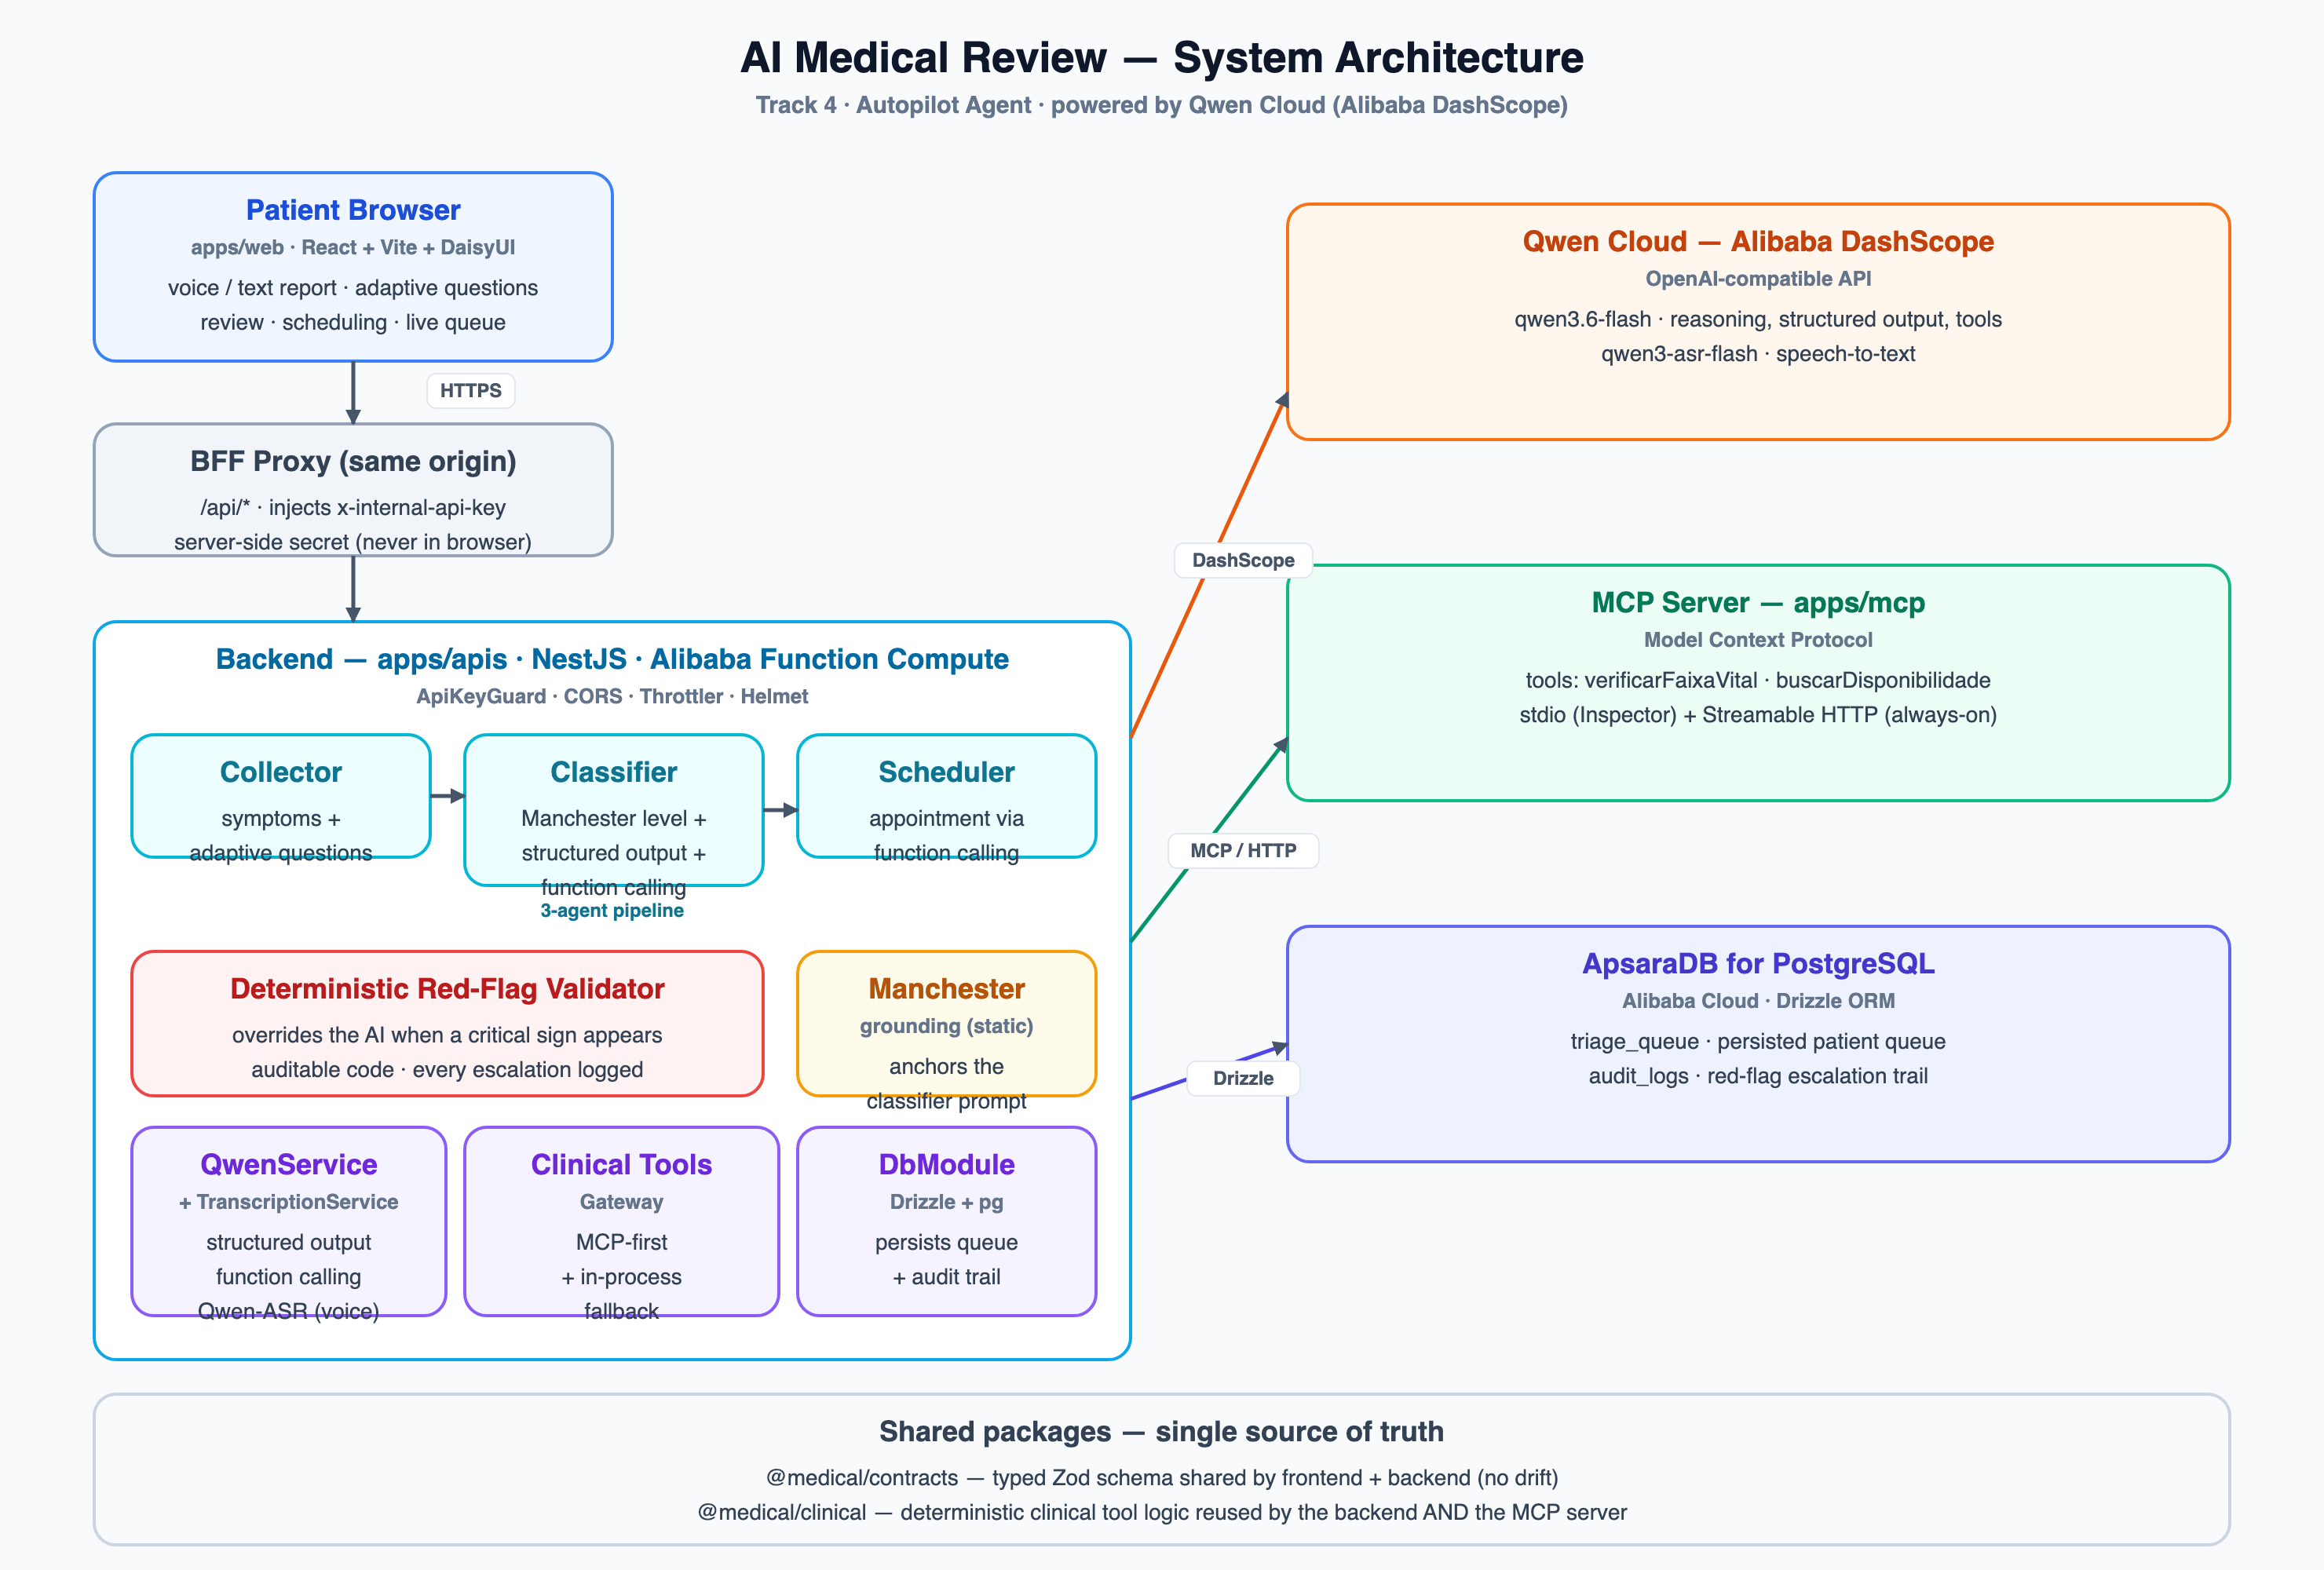
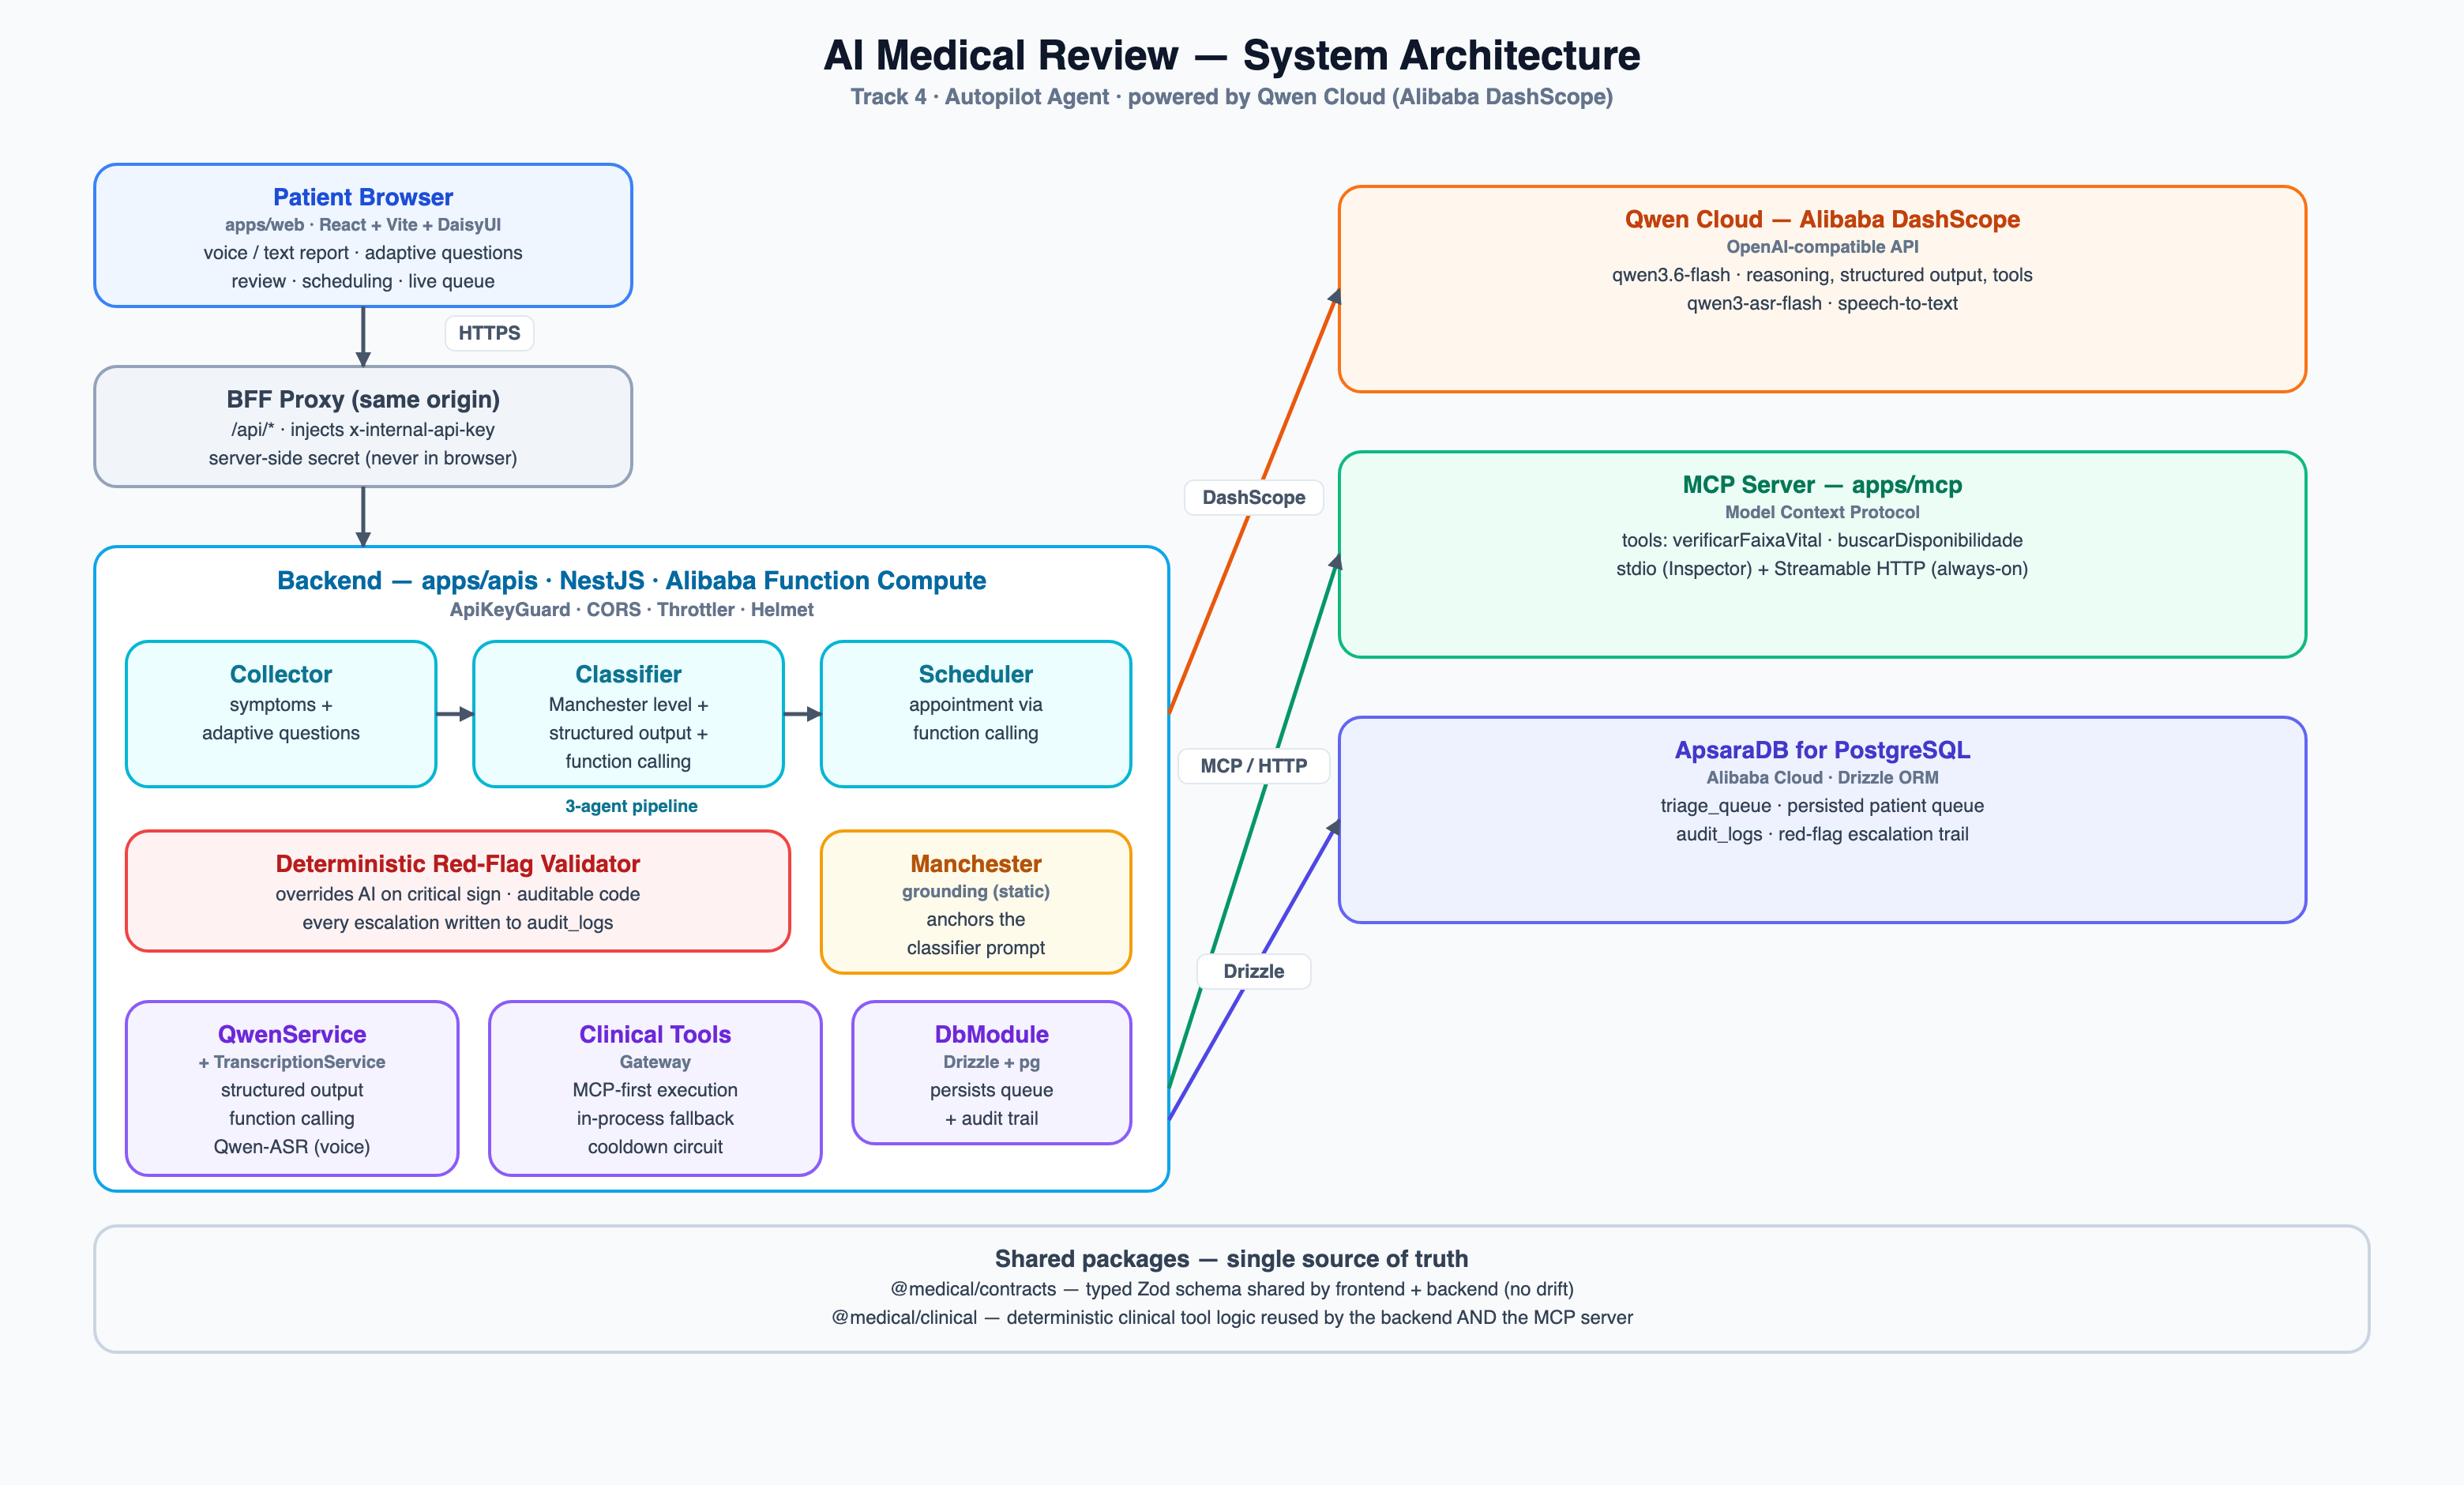
Update architecture diagrams: enhance SVG dimensions and layout for clarity

diff --git a/apps/web/src/App.tsx b/apps/web/src/App.tsx
@@ -897,28 +897,6 @@ export default function App() {
       data-theme={isDarkMode ? 'night' : 'light'}
       className="min-h-screen bg-base-200 text-base-content font-sans transition-colors duration-200 flex flex-col justify-between"
     >
-      <div className="fixed right-4 top-4 z-40 flex items-center gap-1 rounded-full border border-base-300 bg-base-100/95 p-1 shadow-lg backdrop-blur">
-        {(['pt-BR', 'en'] as const).map(option => (
-          <button
-            key={option}
-            type="button"
-            aria-label={
-              option === 'pt-BR'
-                ? 'Alterar idioma para português'
-                : 'Change language to English'
-            }
-            className={`rounded-full px-3 py-1.5 text-xs font-black transition ${
-              activeIdioma === option
-                ? 'bg-primary text-primary-content'
-                : 'text-base-content/60 hover:bg-base-200'
-            }`}
-            onClick={() => handleLanguageChange(option)}
-          >
-            {option === 'pt-BR' ? 'PT' : 'EN'}
-          </button>
-        ))}
-      </div>
-
       {/* Toast Notification */}
       {customToast && (
         <div
@@ -3021,7 +2999,30 @@ export default function App() {
               </button>
             </div>
 
-            <div className="flex items-center gap-3">
+            <div className="flex items-center gap-3 flex-wrap justify-end">
+              {/* Language Switch */}
+              <div className="flex items-center gap-1 rounded-full border border-base-300 bg-base-100/95 p-1 shadow-sm backdrop-blur">
+                {(['pt-BR', 'en'] as const).map(option => (
+                  <button
+                    key={option}
+                    type="button"
+                    aria-label={
+                      option === 'pt-BR'
+                        ? 'Alterar idioma para português'
+                        : 'Change language to English'
+                    }
+                    className={`rounded-full px-3 py-1.5 text-xs font-black transition ${
+                      activeIdioma === option
+                        ? 'bg-primary text-primary-content'
+                        : 'text-base-content/60 hover:bg-base-200'
+                    }`}
+                    onClick={() => handleLanguageChange(option)}
+                  >
+                    {option === 'pt-BR' ? 'PT' : 'EN'}
+                  </button>
+                ))}
+              </div>
+
               {/* Light/Dark mode Toggle */}
               <button
                 id="theme_toggle"

diff --git a/docs/architecture.gen.py b/docs/architecture.gen.py
@@ -1,7 +1,9 @@
 #!/usr/bin/env python3
 """Generate the AI Medical Review architecture diagram as a standalone SVG."""
 
-W, H = 1480, 1000
+import os
+
+W, H = 1560, 940
 parts = []
 
 def esc(s):
@@ -13,23 +15,25 @@ def box(x, y, w, h, fill, stroke, rx=14):
         f'fill="{fill}" stroke="{stroke}" stroke-width="2"/>'
     )
 
-def text(x, y, s, size=17, weight="700", fill="#0f172a", anchor="middle", family="Helvetica"):
+def text(x, y, s, size=16, weight="700", fill="#0f172a", anchor="middle", family="Helvetica"):
     parts.append(
         f'<text x="{x}" y="{y}" font-family="{family},Arial,sans-serif" '
         f'font-size="{size}" font-weight="{weight}" fill="{fill}" '
         f'text-anchor="{anchor}">{esc(s)}</text>'
     )
 
-def lines(cx, top, items, size=14, weight="500", fill="#334155", gap=22, anchor="middle"):
+def lines(cx, top, items, size=12, weight="500", fill="#334155", gap=18, anchor="middle"):
     for i, s in enumerate(items):
         text(cx, top + i * gap, s, size=size, weight=weight, fill=fill, anchor=anchor)
 
+# titled(): body starts at y+60 (with subtitle) or y+44 (without).
+# Minimum heights: sub+2lines=90, sub+3lines=108, nosub+2lines=76, nosub+3lines=92
 def titled(x, y, w, h, title, subtitle, body, fill, stroke, tcolor):
     box(x, y, w, h, fill, stroke)
-    text(x + w / 2, y + 30, title, size=18, weight="800", fill=tcolor)
+    text(x + w / 2, y + 26, title, size=15, weight="800", fill=tcolor)
     if subtitle:
-        text(x + w / 2, y + 52, subtitle, size=13, weight="600", fill="#64748b")
-    lines(x + w / 2, y + (78 if subtitle else 58), body)
+        text(x + w / 2, y + 42, subtitle, size=11, weight="600", fill="#64748b")
+    lines(x + w / 2, y + (60 if subtitle else 44), body)
 
 def arrow(x1, y1, x2, y2, color="#475569", dash=False, width=2.5):
     d = ' stroke-dasharray="7 6"' if dash else ''
@@ -45,7 +49,7 @@ def label(x, y, s, color="#475569"):
     )
     text(x, y + 1, s, size=12, weight="700", fill=color)
 
-# defs / background
+# ── defs / background ────────────────────────────────────────────────────────
 parts.append(
     '<defs><marker id="arrow" markerWidth="12" markerHeight="12" refX="9" refY="5" '
     'orient="auto" markerUnits="userSpaceOnUse">'
@@ -53,92 +57,117 @@ parts.append(
 )
 parts.append(f'<rect x="0" y="0" width="{W}" height="{H}" fill="#f8fafc"/>')
 
-# title
-text(W / 2, 46, "AI Medical Review — System Architecture", size=27, weight="800")
-text(W / 2, 72, "Track 4 · Autopilot Agent · powered by Qwen Cloud (Alibaba DashScope)",
-     size=15, weight="600", fill="#64748b")
+# ── Title ────────────────────────────────────────────────────────────────────
+text(W / 2, 44, "AI Medical Review — System Architecture", size=26, weight="800")
+text(W / 2, 66, "Track 4 · Autopilot Agent · powered by Qwen Cloud (Alibaba DashScope)",
+     size=14, weight="600", fill="#64748b")
 
-# ---- Frontend ----
-titled(60, 110, 330, 120, "Patient Browser", "apps/web · React + Vite + DaisyUI",
+# ── Frontend  (subtitle + 2 body lines → h≥90) ───────────────────────────────
+titled(60, 104, 340, 90, "Patient Browser", "apps/web · React + Vite + DaisyUI",
        ["voice / text report · adaptive questions",
         "review · scheduling · live queue"],
        "#eff6ff", "#3b82f6", "#1d4ed8")
 
-# ---- BFF ----
-titled(60, 270, 330, 84, "BFF Proxy (same origin)", "",
+# ── BFF  (no subtitle + 2 body lines → h≥76) ─────────────────────────────────
+titled(60, 232, 340, 76, "BFF Proxy (same origin)", "",
        ["/api/*  ·  injects x-internal-api-key",
         "server-side secret (never in browser)"],
        "#f1f5f9", "#94a3b8", "#334155")
 
-# ---- Backend container ----
-bx, by, bw, bh = 60, 396, 660, 470
+# ── Backend container ─────────────────────────────────────────────────────────
+# Layout:
+#   py = 406  (pipeline row)        cards h=92
+#   sy = 522  (safety row)          safety h=76, manchester h=90
+#   ry = 630  (bottom row)          cards h=110
+#   container bottom = 754          bh = 754 - 346 = 408
+bx, by, bw = 60, 346, 680
+bh = 408
 box(bx, by, bw, bh, "#ffffff", "#0ea5e9")
-text(bx + bw / 2, by + 30, "Backend — apps/apis · NestJS · Alibaba Function Compute", size=18, weight="800", fill="#0369a1")
-text(bx + bw / 2, by + 52, "ApiKeyGuard · CORS · Throttler · Helmet", size=13, weight="600", fill="#64748b")
+text(bx + bw / 2, by + 27, "Backend — apps/apis · NestJS · Alibaba Function Compute",
+     size=16, weight="800", fill="#0369a1")
+text(bx + bw / 2, by + 44, "ApiKeyGuard · CORS · Throttler · Helmet",
+     size=12, weight="600", fill="#64748b")
 
-# pipeline row
-py = by + 72
-titled(bx + 24, py, 190, 78, "Collector", "", ["symptoms +", "adaptive questions"], "#ecfeff", "#06b6d4", "#0e7490")
-titled(bx + 236, py, 190, 96, "Classifier", "", ["Manchester level +", "structured output +", "function calling"], "#ecfeff", "#06b6d4", "#0e7490")
-titled(bx + 448, py, 190, 78, "Scheduler", "", ["appointment via", "function calling"], "#ecfeff", "#06b6d4", "#0e7490")
-arrow(bx + 214, py + 39, bx + 236, py + 39)
-arrow(bx + 426, py + 48, bx + 448, py + 48)
-text(bx + bw/2, py + 116, "3-agent pipeline", size=12, weight="700", fill="#0e7490")
+# pipeline row  (no subtitle + 2-3 body lines → h=92 uniform)
+py = by + 60   # = 406
+titled(bx + 20,  py, 196, 92, "Collector",  "", ["symptoms +", "adaptive questions"],
+       "#ecfeff", "#06b6d4", "#0e7490")
+titled(bx + 240, py, 196, 92, "Classifier", "",
+       ["Manchester level +", "structured output +", "function calling"],
+       "#ecfeff", "#06b6d4", "#0e7490")
+titled(bx + 460, py, 196, 92, "Scheduler",  "", ["appointment via", "function calling"],
+       "#ecfeff", "#06b6d4", "#0e7490")
+arrow(bx + 216, py + 46, bx + 240, py + 46)
+arrow(bx + 436, py + 46, bx + 460, py + 46)
+text(bx + bw / 2, py + 108, "3-agent pipeline", size=11, weight="700", fill="#0e7490")
 
-# safety + grounding
-sy = by + 210
-titled(bx + 24, sy, 402, 92, "Deterministic Red-Flag Validator", "",
-       ["overrides the AI when a critical sign appears",
-        "auditable code · every escalation logged"], "#fef2f2", "#ef4444", "#b91c1c")
-titled(bx + 448, sy, 190, 92, "Manchester", "grounding (static)", ["anchors the", "classifier prompt"], "#fffbeb", "#f59e0b", "#b45309")
+# safety row  (safety: no sub + 2 lines h=76 / manchester: sub + 2 lines h=90)
+sy = py + 120   # = 526
+titled(bx + 20, sy, 420, 76, "Deterministic Red-Flag Validator", "",
+       ["overrides AI on critical sign  ·  auditable code",
+        "every escalation written to audit_logs"],
+       "#fef2f2", "#ef4444", "#b91c1c")
+titled(bx + 460, sy, 196, 90, "Manchester", "grounding (static)",
+       ["anchors the", "classifier prompt"],
+       "#fffbeb", "#f59e0b", "#b45309")
 
-# bottom row: qwen client, tools gateway, db module
-ry = by + 322
-titled(bx + 24, ry, 200, 120, "QwenService", "+ TranscriptionService",
-       ["structured output", "function calling", "Qwen-ASR (voice)"], "#f5f3ff", "#8b5cf6", "#6d28d9")
-titled(bx + 236, ry, 200, 120, "Clinical Tools", "Gateway",
-       ["MCP-first", "+ in-process", "fallback"], "#f5f3ff", "#8b5cf6", "#6d28d9")
-titled(bx + 448, ry, 190, 120, "DbModule", "Drizzle + pg",
-       ["persists queue", "+ audit trail"], "#f5f3ff", "#8b5cf6", "#6d28d9")
+# bottom row  (subtitle + 3 lines → h=110 / subtitle + 2 lines → h=90)
+ry = sy + 108   # = 634
+titled(bx + 20,  ry, 210, 110, "QwenService", "+ TranscriptionService",
+       ["structured output", "function calling", "Qwen-ASR (voice)"],
+       "#f5f3ff", "#8b5cf6", "#6d28d9")
+titled(bx + 250, ry, 210, 110, "Clinical Tools", "Gateway",
+       ["MCP-first execution", "in-process fallback", "cooldown circuit"],
+       "#f5f3ff", "#8b5cf6", "#6d28d9")
+titled(bx + 480, ry, 176, 90, "DbModule", "Drizzle + pg",
+       ["persists queue", "+ audit trail"],
+       "#f5f3ff", "#8b5cf6", "#6d28d9")
 
-# ---- Right column: Qwen Cloud, MCP, Postgres ----
-titled(820, 130, 600, 150, "Qwen Cloud — Alibaba DashScope", "OpenAI-compatible API",
+# ── Right column: Qwen Cloud / MCP / ApsaraDB (subtitle + 2 lines → h=90, padded to 130) ──
+titled(848, 118, 612, 130, "Qwen Cloud — Alibaba DashScope", "OpenAI-compatible API",
        ["qwen3.6-flash  ·  reasoning, structured output, tools",
-        "qwen3-asr-flash  ·  speech-to-text"], "#fff7ed", "#f97316", "#c2410c")
+        "qwen3-asr-flash  ·  speech-to-text"],
+       "#fff7ed", "#f97316", "#c2410c")
 
-titled(820, 360, 600, 150, "MCP Server — apps/mcp", "Model Context Protocol",
+titled(848, 286, 612, 130, "MCP Server — apps/mcp", "Model Context Protocol",
        ["tools: verificarFaixaVital · buscarDisponibilidade",
-        "stdio (Inspector) + Streamable HTTP (always-on)"], "#ecfdf5", "#10b981", "#047857")
+        "stdio (Inspector) + Streamable HTTP (always-on)"],
+       "#ecfdf5", "#10b981", "#047857")
 
-titled(820, 590, 600, 150, "ApsaraDB for PostgreSQL", "Alibaba Cloud · Drizzle ORM",
+titled(848, 454, 612, 130, "ApsaraDB for PostgreSQL", "Alibaba Cloud · Drizzle ORM",
        ["triage_queue  ·  persisted patient queue",
-        "audit_logs  ·  red-flag escalation trail"], "#eef2ff", "#6366f1", "#4338ca")
+        "audit_logs  ·  red-flag escalation trail"],
+       "#eef2ff", "#6366f1", "#4338ca")
 
-# ---- Shared packages footer (full width = shared by all) ----
-titled(60, 888, 1360, 96, "Shared packages — single source of truth", "",
+# ── Shared packages footer (no subtitle + 2 lines → h=76, padded to 80) ────
+titled(60, 776, 1440, 80, "Shared packages — single source of truth", "",
        ["@medical/contracts — typed Zod schema shared by frontend + backend (no drift)",
         "@medical/clinical — deterministic clinical tool logic reused by the backend AND the MCP server"],
        "#f8fafc", "#cbd5e1", "#334155")
 
-# ---- Arrows ----
-arrow(225, 230, 225, 270)                  # frontend -> bff
-label(300, 252, "HTTPS")
-arrow(225, 354, 225, 396)                  # bff -> backend
+# ── Arrows ────────────────────────────────────────────────────────────────────
+arrow(230, 194, 230, 232)          # frontend → bff
+label(310, 214, "HTTPS")
+arrow(230, 308, 230, 346)          # bff → backend
 
-# backend -> qwen cloud
-arrow(720, 470, 820, 250, color="#ea580c")
-label(792, 360, "DashScope")
-# backend tools gateway -> MCP
-arrow(720, 600, 820, 470, color="#059669")
-label(792, 545, "MCP / HTTP")
-# backend db -> postgres
-arrow(720, 700, 820, 665, color="#4f46e5")
-label(792, 690, "Drizzle")
+# backend right edge = bx+bw = 740 / right col left = 848
+arrow(740, py + 46, 848, 183, color="#ea580c")   # pipeline → Qwen Cloud
+label(794, 318, "DashScope")
+
+arrow(740, ry + 55, 848, 351, color="#059669")   # tools gateway → MCP
+label(794, 488, "MCP / HTTP")
+
+arrow(740, ry + 75, 848, 519, color="#4f46e5")   # db module → ApsaraDB
+label(794, 618, "Drizzle")
+
+# ── SVG output ────────────────────────────────────────────────────────────────
+out_dir = os.path.dirname(os.path.abspath(__file__))
+out_path = os.path.join(out_dir, "architecture.svg")
 
 svg = (
     f'<svg xmlns="http://www.w3.org/2000/svg" width="{W}" height="{H}" '
     f'viewBox="0 0 {W} {H}">' + ''.join(parts) + '</svg>'
 )
-with open('/tmp/arch/architecture.svg', 'w') as f:
+with open(out_path, 'w') as f:
     f.write(svg)
-print("wrote svg", len(svg), "bytes")
+print(f"wrote {out_path} ({len(svg)} bytes)")